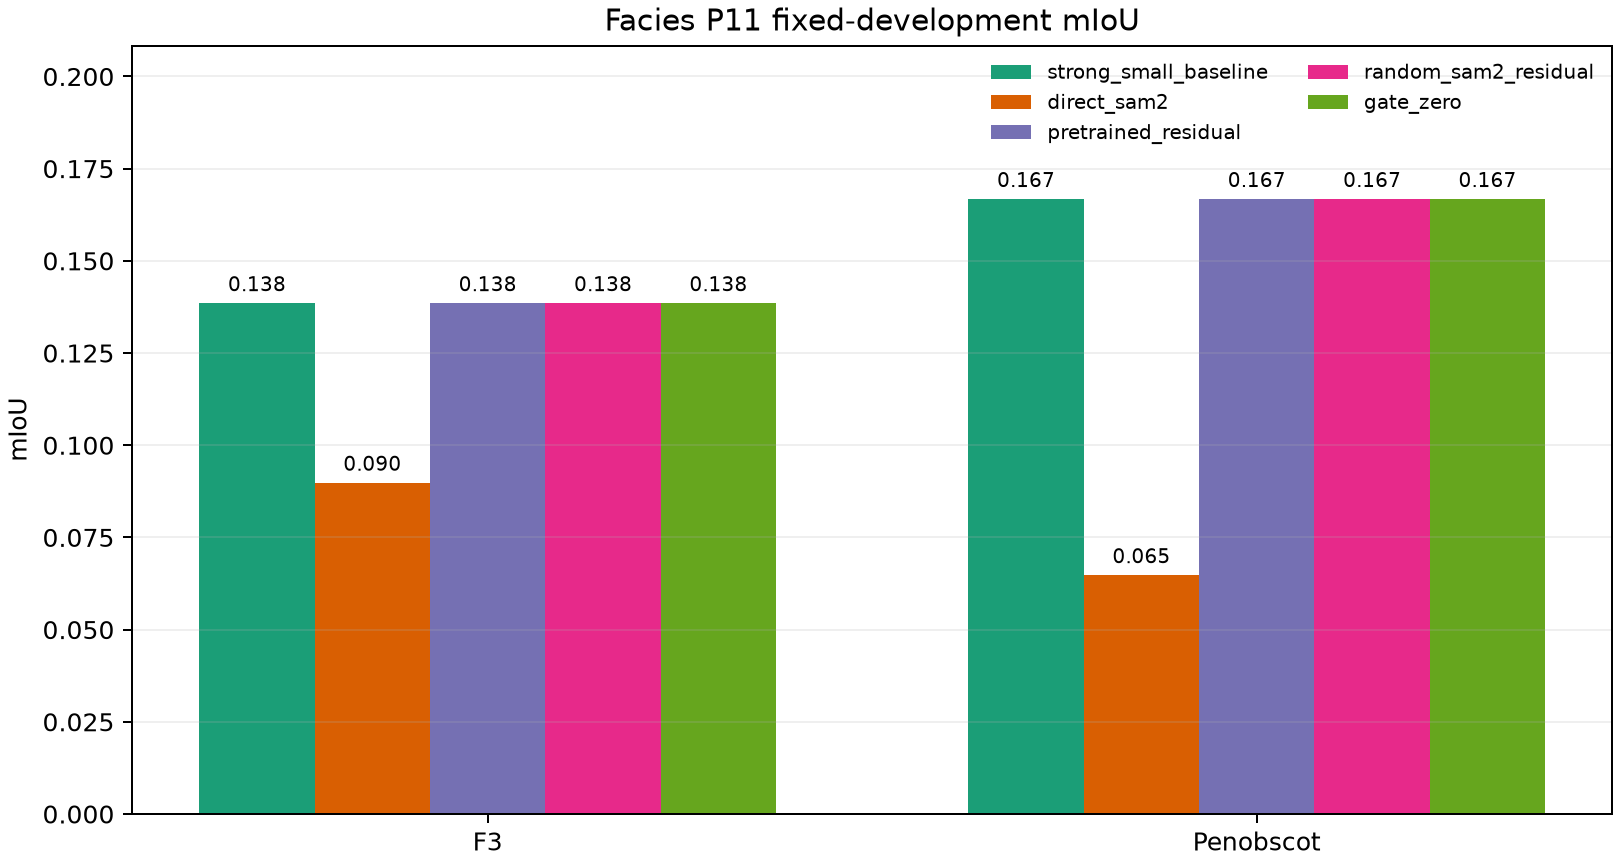
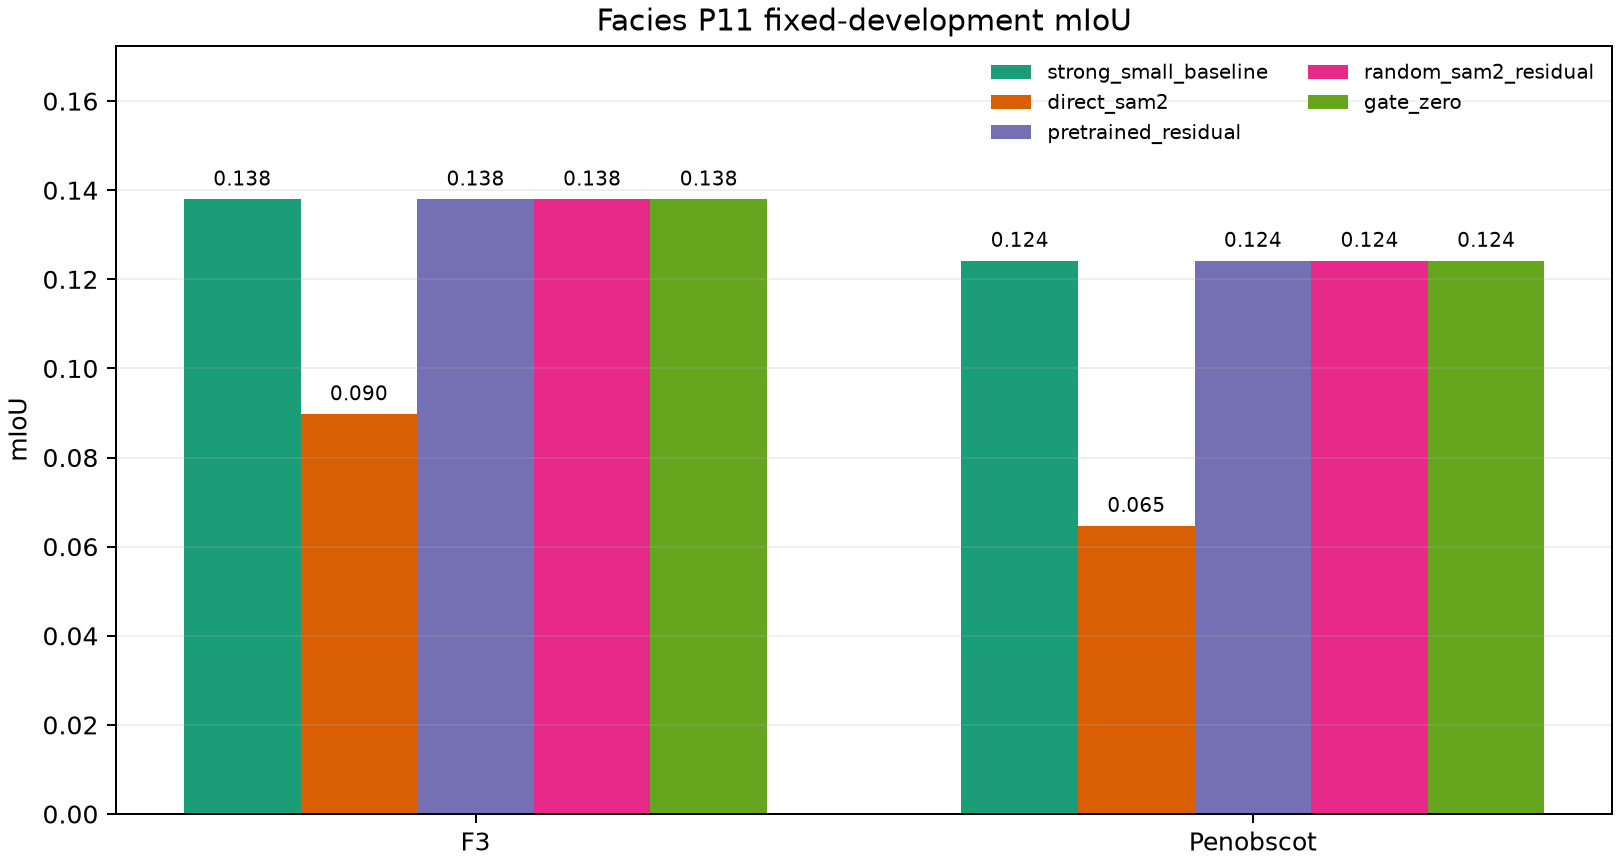
test(facies): record final p11 residual evidence

diff --git a/_pipelines/02_task_datasets/facies/_outputs/p11_residual_fusion/p11_residual_fusion_report.md b/_pipelines/02_task_datasets/facies/_outputs/p11_residual_fusion/p11_residual_fusion_report.md
@@ -10,16 +10,16 @@ The gate sees only inference-time summaries of the main logits and frozen cached
 
 | Task | Variant | mIoU | Δ vs baseline | Accuracy | Macro F1 | Gate mean | Correction mean abs | Notes |
 |---|---|---:|---:|---:|---:|---:|---:|---|
-| F3 | strong_small_baseline | 0.138472 | +0.000000 | 0.320658 | 0.224004 | 0.000000 | 0.00000000 | trained |
-| F3 | direct_sam2 | 0.089779 | -0.048693 | 0.310900 | 0.143400 | 0.000000 | 0.00000000 | trained |
-| F3 | pretrained_residual | 0.138472 | +0.000000 | 0.320658 | 0.224004 | 0.016842 | 0.00000244 | non_beneficial |
-| F3 | random_sam2_residual | 0.138474 | +0.000001 | 0.320660 | 0.224006 | 0.016836 | 0.00001204 | trained |
-| F3 | gate_zero | 0.138472 | +0.000000 | 0.320658 | 0.224004 | 0.000000 | 0.00000000 | exact main-route control |
-| Penobscot | strong_small_baseline | 0.166713 | +0.000000 | 0.464989 | 0.224872 | 0.000000 | 0.00000000 | trained |
-| Penobscot | direct_sam2 | 0.064715 | -0.101998 | 0.476048 | 0.086316 | 0.000000 | 0.00000000 | trained |
-| Penobscot | pretrained_residual | 0.166714 | +0.000002 | 0.464996 | 0.224873 | 0.017736 | 0.00000588 | non_beneficial |
-| Penobscot | random_sam2_residual | 0.166714 | +0.000001 | 0.465012 | 0.224867 | 0.017710 | 0.00003861 | trained |
-| Penobscot | gate_zero | 0.166713 | +0.000000 | 0.464989 | 0.224872 | 0.000000 | 0.00000000 | exact main-route control |
+| F3 | strong_small_baseline | 0.137977 | +0.000000 | 0.318844 | 0.223113 | 0.000000 | 0.00000000 | trained |
+| F3 | direct_sam2 | 0.089780 | -0.048198 | 0.310902 | 0.143401 | 0.000000 | 0.00000000 | trained |
+| F3 | pretrained_residual | 0.137977 | -0.000000 | 0.318844 | 0.223113 | 0.016855 | 0.00000250 | non_beneficial |
+| F3 | random_sam2_residual | 0.137978 | +0.000001 | 0.318846 | 0.223114 | 0.016851 | 0.00001241 | trained |
+| F3 | gate_zero | 0.137977 | +0.000000 | 0.318844 | 0.223113 | 0.000000 | 0.00000000 | exact main-route control |
+| Penobscot | strong_small_baseline | 0.124216 | +0.000000 | 0.431519 | 0.170191 | 0.000000 | 0.00000000 | trained |
+| Penobscot | direct_sam2 | 0.064715 | -0.059501 | 0.476048 | 0.086316 | 0.000000 | 0.00000000 | trained |
+| Penobscot | pretrained_residual | 0.124217 | +0.000001 | 0.431524 | 0.170192 | 0.017725 | 0.00000568 | non_beneficial |
+| Penobscot | random_sam2_residual | 0.124219 | +0.000003 | 0.431540 | 0.170194 | 0.017694 | 0.00003712 | trained |
+| Penobscot | gate_zero | 0.124216 | +0.000000 | 0.431519 | 0.170191 | 0.000000 | 0.00000000 | exact main-route control |
 
 ## Conclusion
 
